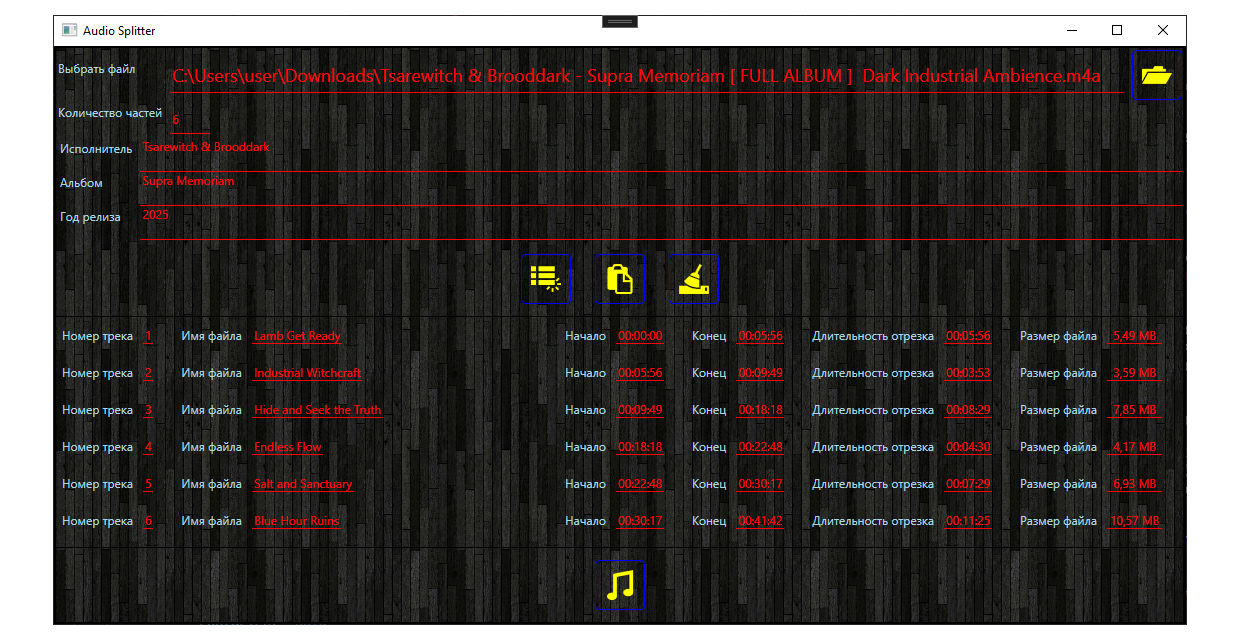
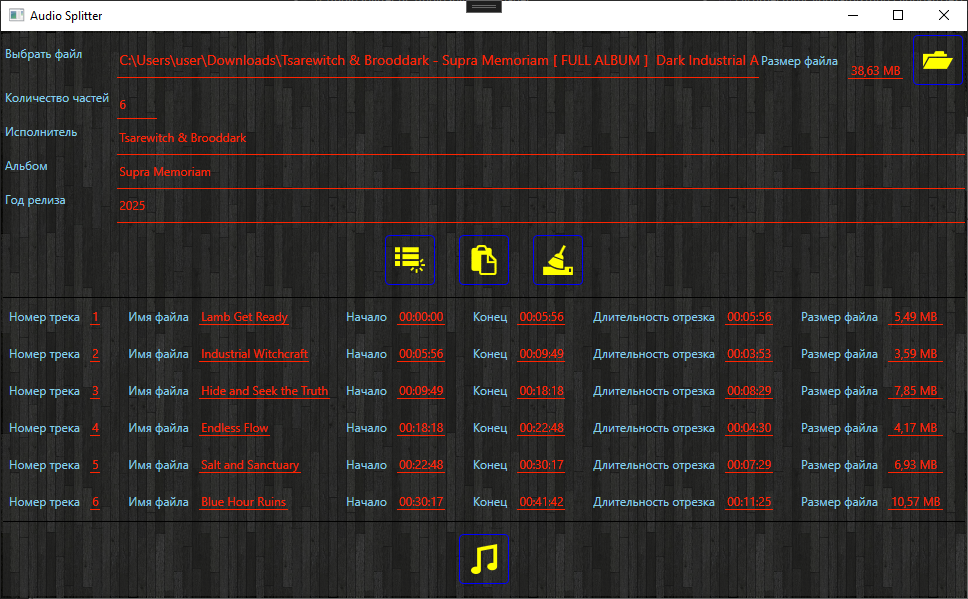
Добавлено поле отображения размера исходного файла. Добавлена проверка на наличие ffmpeg и ffprobe в начале запуска приложения

diff --git a/AudioSplitter/MainWindow.xaml b/AudioSplitter/MainWindow.xaml
@@ -7,6 +7,7 @@
     xmlns:local="clr-namespace:AudioSplitter"
     xmlns:mc="http://schemas.openxmlformats.org/markup-compatibility/2006"
     xmlns:vm="clr-namespace:AudioSplitter.ViewModels"
+    IsEnabled="{Binding IsEnabled}"
     Title="{Binding Title}"
     Width="903"
     d:DataContext="{d:DesignInstance IsDesignTimeCreatable=True,
@@ -48,17 +49,30 @@
             VerticalAlignment="Center"
             Style="{StaticResource TagKeyTextBlockStyle}"
             Text="Выбрать файл" />
-        <DockPanel Grid.Row="0" Grid.Column="1" />
-        <TextBox
-            Grid.Row="0"
-            Grid.Column="1"
-            Height="36"
-            VerticalAlignment="Center"
-            VerticalContentAlignment="Center"
-            FontSize="18"
-            IsReadOnly="True"
-            Style="{StaticResource DefaultTextBoxStyle}"
-            Text="{Binding SelectedSourceFile}" />
+        <DockPanel Grid.Row="0" Grid.Column="1" LastChildFill="True">
+
+            <TextBox DockPanel.Dock="Right"
+                                Width="55"
+                     Margin="2,2,2,8"
+                                HorizontalContentAlignment="Center"
+                     VerticalAlignment="Bottom"
+                                IsReadOnly="True"
+                                Style="{StaticResource ChunkDisplayItemValueStyle}"
+                                Text="{Binding SelectedSourceFileSize, Mode=OneWay}" />
+            <TextBlock Text="Размер файла" DockPanel.Dock="Right"
+                       Style="{StaticResource ChunkDisplayItemTitleStyle}"/>
+            <TextBox
+                Grid.Row="0"
+                Grid.Column="1"
+                Height="36"
+                VerticalAlignment="Center"
+                VerticalContentAlignment="Center"
+                FontSize="14"
+                IsReadOnly="True"
+                Style="{StaticResource DefaultTextBoxStyle}"
+                Text="{Binding SelectedSourceFile}" />
+        </DockPanel>
+
         <Button
             x:Name="btnSelectSourceFile"
             Grid.Row="0"

diff --git a/AudioSplitter/App.xaml b/AudioSplitter/App.xaml
@@ -79,6 +79,7 @@
             </Style>
             <Style x:Key="ChunkDisplayItemTitleStyle" TargetType="TextBlock">
                 <Setter Property="Margin" Value="2,2,8,2" />
+                <Setter Property="VerticalAlignment" Value="Center" />
                 <Setter Property="Foreground" Value="{DynamicResource ResourceKey=SecondaryForegroundColor}" />
             </Style>
             <Style x:Key="ChunkDisplayItemValueStyle" TargetType="TextBox">

diff --git a/AudioSplitter/App.xaml.cs b/AudioSplitter/App.xaml.cs
@@ -3,6 +3,7 @@ using AudioSplitter.Interfaces;
 using AudioSplitter.ViewModels;
 using Microsoft.Extensions.DependencyInjection;
 using Microsoft.Extensions.Hosting;
+using System.IO;
 using System.Windows;
 
 namespace AudioSplitter
@@ -12,6 +13,7 @@ namespace AudioSplitter
     /// </summary>
     public partial class App : Application
     {
+
         public static IHost HostContainer { get; private set; }
         public static Mutex mutex;
 
@@ -37,10 +39,31 @@ namespace AudioSplitter
 
         }
 
+        protected override void OnExit(ExitEventArgs e)
+        {
+            mutex.ReleaseMutex();
+            base.OnExit(e);
+        }
+
         protected override async void OnStartup(StartupEventArgs e)
         {
+            var requiredFiles = new[] { "ffmpeg.exe", "ffprobe.exe" };
+            var vm = HostContainer.Services.GetRequiredService<MainWindowViewModel>();
+
+            foreach (var file in requiredFiles)
+            {
+                if (!File.Exists(file))
+                {
+                    string error = $"{file} должен находится в корне программы\r\nСкачать можно по ссылке: https://github.com/BtbN/FFmpeg-Builds/releases";
+                    vm.Title = error;
+                    vm.IsEnabled = false;
+                    MessageBox.Show(error, "Ошибка", MessageBoxButton.OK, MessageBoxImage.Error);
+                    break;
+                }
+            }
+
             var mainWindow = new MainWindow();
-            mainWindow.DataContext = HostContainer.Services.GetRequiredService<MainWindowViewModel>();
+            mainWindow.DataContext = vm;
             mainWindow.ShowDialog();
         }
     }

diff --git a/AudioSplitter/ViewModels/MainWindowViewModel.cs b/AudioSplitter/ViewModels/MainWindowViewModel.cs
@@ -19,11 +19,15 @@ public partial class MainWindowViewModel : ObservableObject
     private readonly IAduioTagWriter tagWriter;
 
     [ObservableProperty]
-    [NotifyCanExecuteChangedFor(nameof(CreateChunksCommand))]
-    public string selectedSourceFile = @"C:\users\user\Desktop\123.m4a";
+    public string title = "Audio Splitter";
 
     [ObservableProperty]
-    public string title = "Audio Splitter";
+    public bool isEnabled = true;
+
+    [ObservableProperty]
+    [NotifyCanExecuteChangedFor(nameof(CreateChunksCommand))]
+    [NotifyPropertyChangedFor(nameof(SelectedSourceFileSize))]
+    public string selectedSourceFile = @"C:\users\user\Desktop\123.m4a";
 
     [ObservableProperty]
     [NotifyCanExecuteChangedFor(nameof(CreateChunksCommand))]
@@ -53,6 +57,15 @@ public partial class MainWindowViewModel : ObservableObject
     [ObservableProperty]
     [NotifyCanExecuteChangedFor(nameof(UploadAllFilesCommand))]
     public bool canUploadAllFiles = false;
+
+    public string SelectedSourceFileSize
+    {
+        get
+        {
+            return (File.Exists(SelectedSourceFile) ? new FileInfo(SelectedSourceFile).Length : 0)
+                .Bytes().Humanize();
+        }
+    }
 
     public MainWindowViewModel(AudioSplitterManager splitManager, IAduioTagWriter tagWriter)
     {

diff --git a/AudioSplitter/BL/AudioSplitterManager.cs b/AudioSplitter/BL/AudioSplitterManager.cs
@@ -4,6 +4,7 @@ using AudioSplitter.Interfaces;
 using AudioSplitter.Models;
 using System.IO;
 using System.Linq;
+using System.Text.RegularExpressions;
 using System.Windows;
 
 public class AudioSplitterManager
@@ -64,6 +65,10 @@ public class AudioSplitterManager
 
     public void FillTimeFromClipboard(string clipboardText, string sourceFile, IList<AudioFileChunkDisplayItem> items)
     {
+        //Добавляем часы для парсинга TimeSpan 13:45 => 00:13:45
+
+        clipboardText = Regex.Replace(clipboardText, @"(\d{2}):(\d{2})", "00:$1:$2");
+
         var rawData = clipboardText.Split(Environment.NewLine, StringSplitOptions.RemoveEmptyEntries)
             .Select(line => line.Split('\t'))
             .ToArray();
